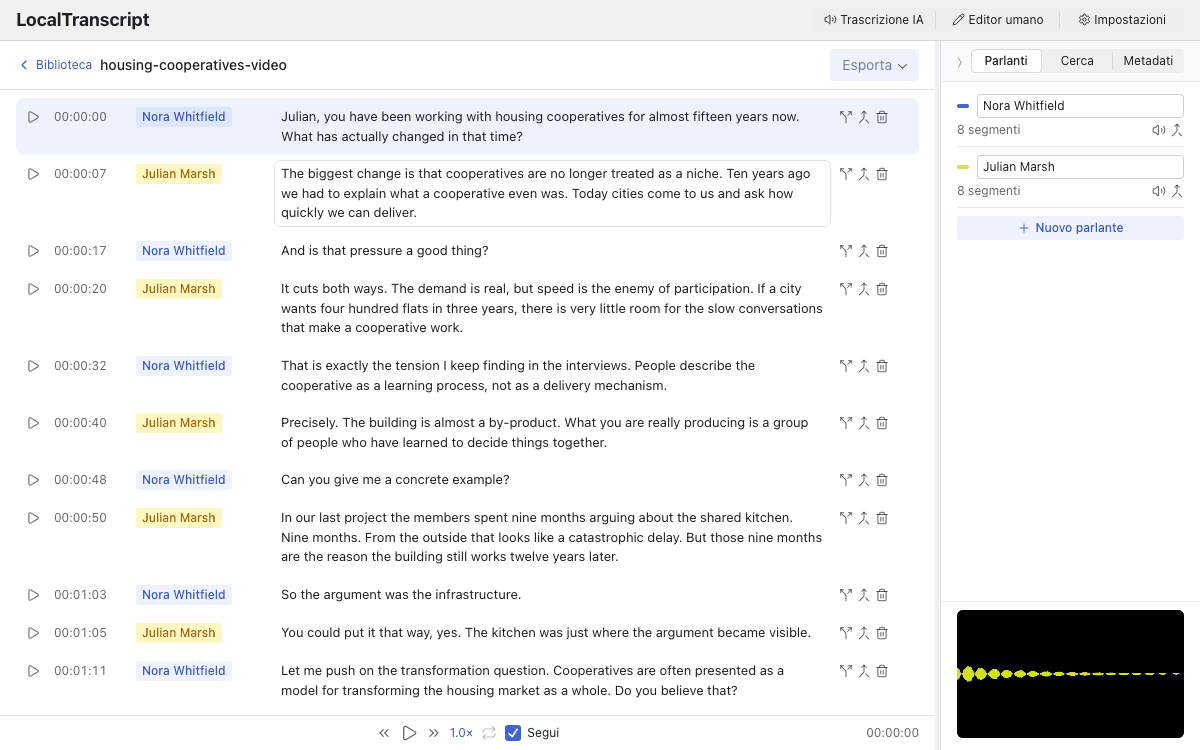
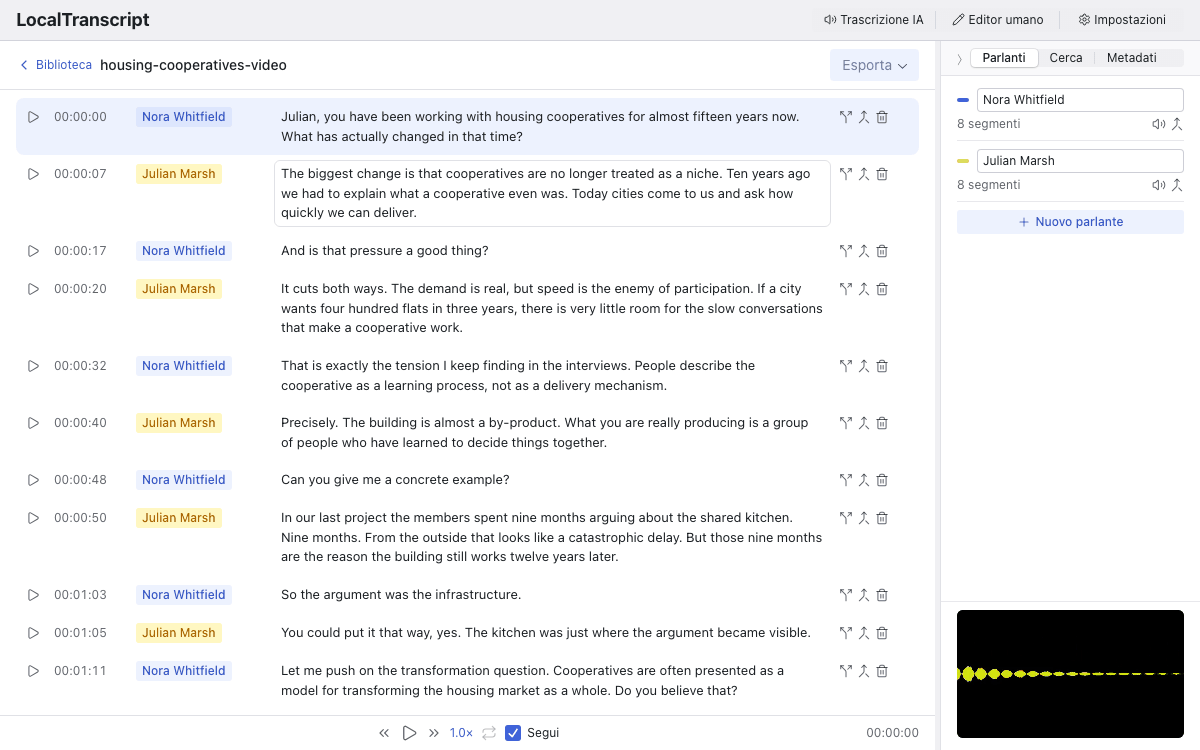
editor: Seitenleisten-Tabs brechen um statt zu kürzen (User) — Radix-Pille aus, aktiver Knopf mit eigener Pille; Website-Bilder erneut
Claude-Session: https://claude.ai/code/session_01VhoDoDyamQwRzZ3dqypMTk

diff --git a/frontend/src/styles.css b/frontend/src/styles.css
@@ -608,15 +608,16 @@ body { margin: 0; background: var(--gray-1); }
 }
 
 /* SegTabs in einer schmalen Kopfzeile (Editor-Seitenspalte): die
-   Knöpfe teilen sich die Breite, Beschriftungen werden mit «…»
-   gekürzt statt über den Panelrand zu laufen (User 2026-09-11). Radix
-   legt im Label (flex) zwei Spans übereinander — aktiv im Fluss,
-   inaktiv absolut; das Label bleibt flex, nur Überlauf und Ellipse
-   kommen dazu. */
-.ui-segtabs-fit { display: flex; width: 100%; min-width: 0; }
-.ui-segtabs-fit .rt-SegmentedControlItem { flex: 1 1 0; min-width: 0; }
-.ui-segtabs-fit .rt-SegmentedControlItemLabel { min-width: 0; overflow: hidden; }
-.ui-segtabs-fit .rt-SegmentedControlItemLabelActive,
-.ui-segtabs-fit .rt-SegmentedControlItemLabelInactive {
-  max-width: 100%; overflow: hidden; text-overflow: ellipsis;
-  white-space: nowrap; }
+   Knöpfe behalten ihre natürliche Breite und BRECHEN in die nächste
+   Zeile um, wenn der Platz (16-px-Rand) nicht reicht — keine Ellipse,
+   nichts gedrängt (User 2026-09-11). Radix' gleitende Pille setzt eine
+   Zeile voraus; sie ist hier aus, der aktive Knopf trägt die Pille als
+   eigenen Hintergrund. */
+.ui-segtabs-fit { display: flex; flex-wrap: wrap; width: 100%; min-width: 0;
+  height: auto; row-gap: 4px; }
+.ui-segtabs-fit .rt-SegmentedControlIndicator,
+.ui-segtabs-fit .rt-SegmentedControlSeparator { display: none; }
+.ui-segtabs-fit .rt-SegmentedControlItem { flex: 0 0 auto; }
+.ui-segtabs-fit .rt-SegmentedControlItem[data-state='on'] .rt-SegmentedControlItemLabel {
+  background: var(--color-panel-solid); border-radius: var(--radius-2);
+  box-shadow: 0 0 0 1px var(--gray-a4), 0 1px 2px var(--black-a3); }
